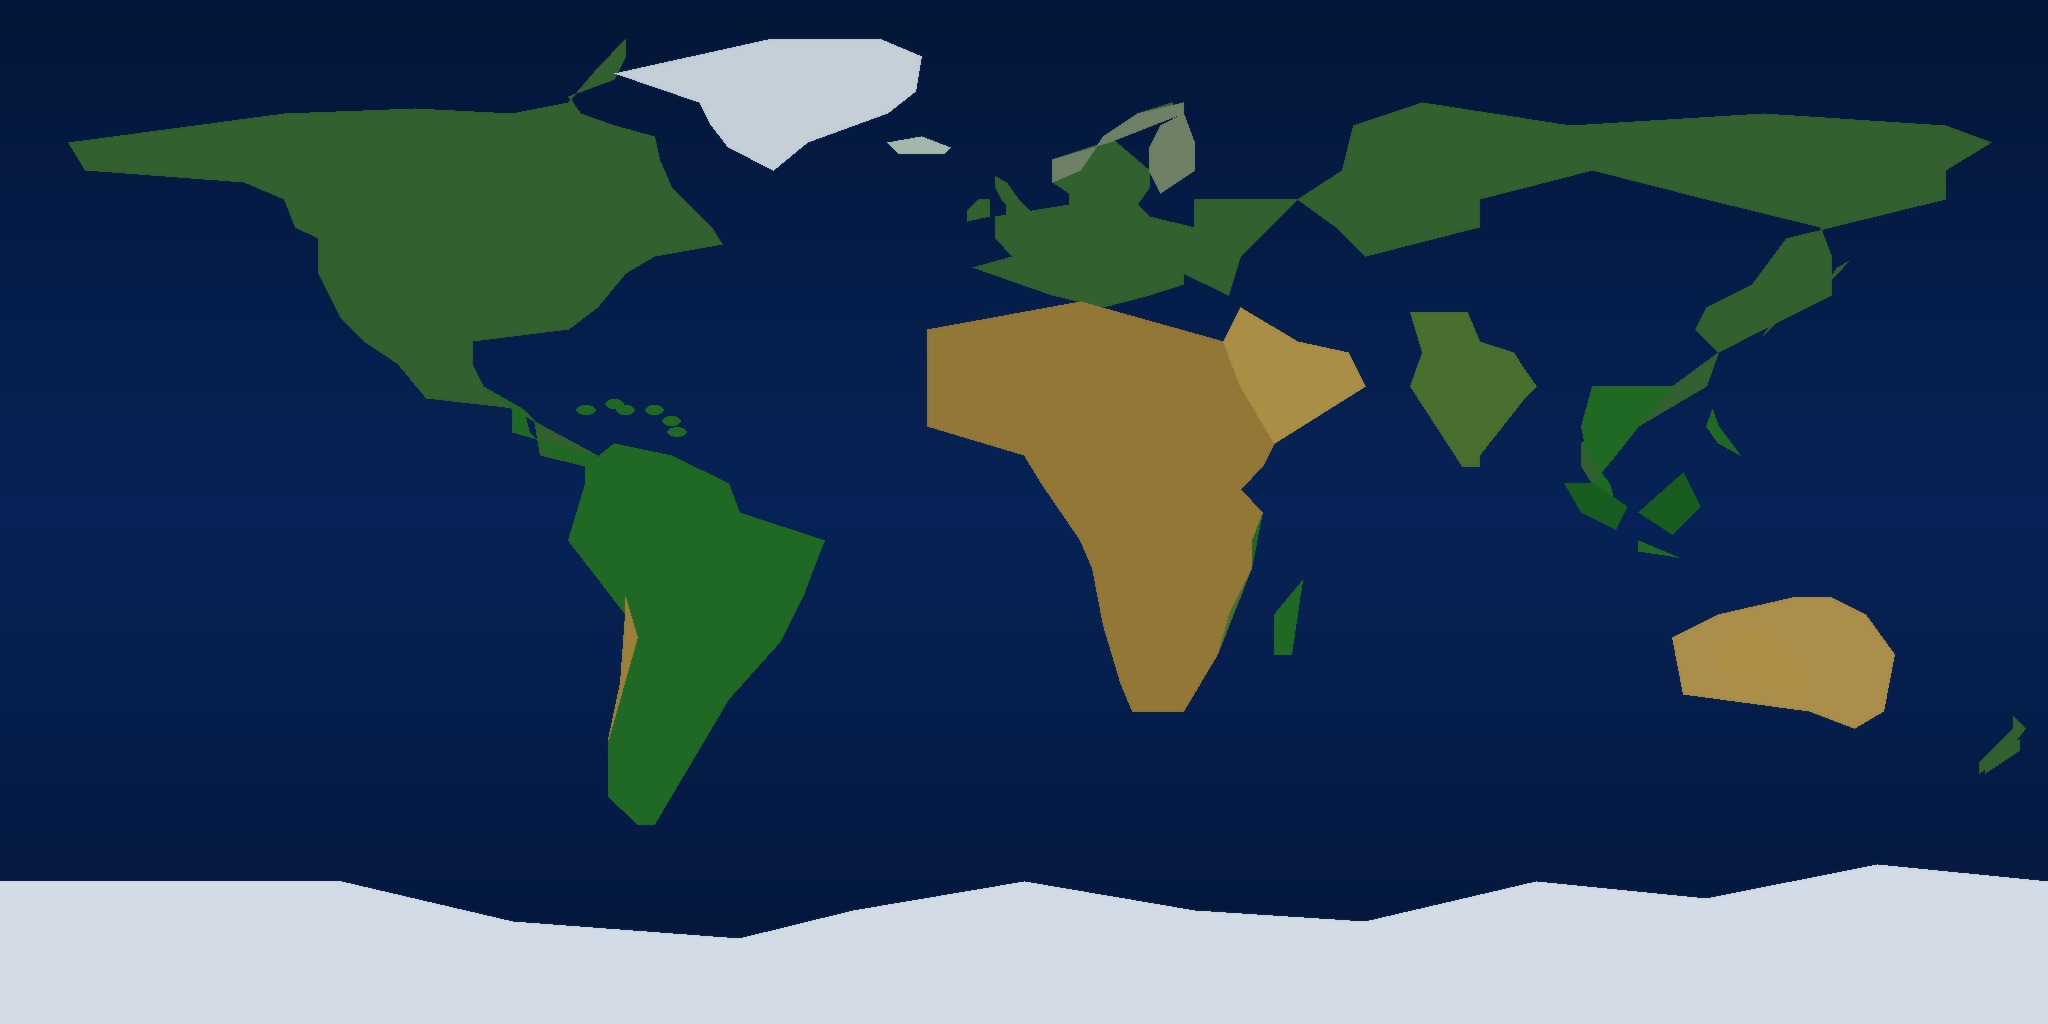
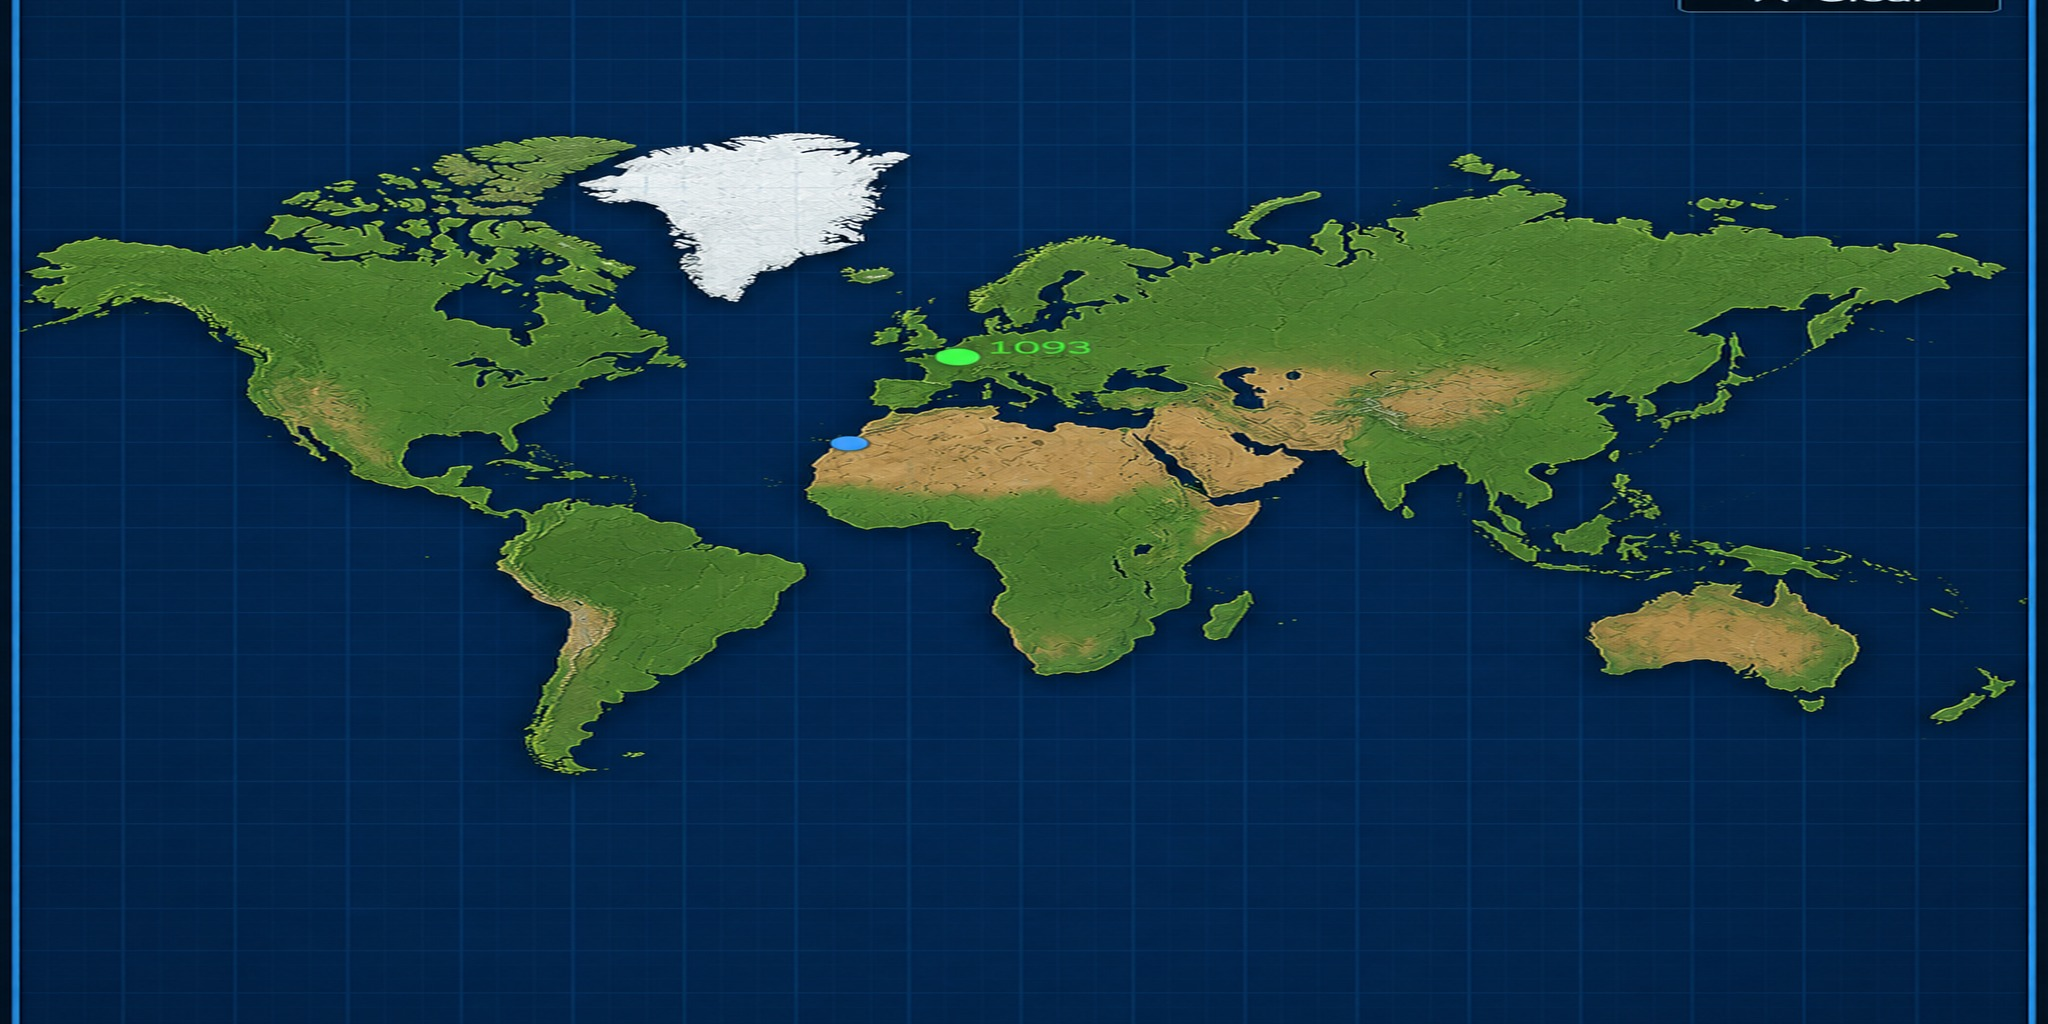
fix: map from user's image + dock pin from floating state
images/worldmap.jpg:
  Replace all generated maps with the actual satellite reference image
  the user provided (/mnt/user-data/uploads/1783166623674_image.png).
  1049x1499 PNG → cropped (4% top, 2% bottom trim) → 2048x1024 JPEG 92q.
  Verified: ocean (7,42,82), Europe land (76,122,49), Africa (84,126,54).

mainwindow.cpp — dock pin from floating state:
  All three pin paths (hamburger pinRequested signal, title-bar context
  menu, startup restore) had the same bug: removeDockWidget() before
  addDockWidget() on a FLOATING dock would detach the widget from the
  main window entirely before re-adding it, causing the dock to either
  disappear or not re-dock on some platforms.

  Qt5 rule: addDockWidget(area, dock) correctly re-docks a floating
  QDockWidget without a prior removeDockWidget() call. The correct
  sequence for floating→docked is simply addDockWidget() + setVisible().
  removeDockWidget() is only valid for the initial startup-restore path
  where the dock is already managed by the main window geometry.

diff --git a/widgets/mainwindow.cpp b/widgets/mainwindow.cpp
@@ -655,15 +655,13 @@ MainWindow::MainWindow(QDir const& temp_directory, bool multiple,
           [this](QPoint const& pos) {
     QMenu m;
     m.addAction(tr("Pin Left"),  [this]{
-      removeDockWidget(m_dxMapDock);
-      addDockWidget(Qt::LeftDockWidgetArea, m_dxMapDock);
-      m_dxMapDock->show();
+      addDockWidget(Qt::LeftDockWidgetArea,  m_dxMapDock);
+      m_dxMapDock->setVisible(true);
       m_settings->setValue("dxMapArea", "left");
     });
     m.addAction(tr("Pin Right"), [this]{
-      removeDockWidget(m_dxMapDock);
       addDockWidget(Qt::RightDockWidgetArea, m_dxMapDock);
-      m_dxMapDock->show();
+      m_dxMapDock->setVisible(true);
       m_settings->setValue("dxMapArea", "right");
     });
     m.addAction(tr("Float (detach)"), [this]{
@@ -697,15 +695,18 @@ MainWindow::MainWindow(QDir const& temp_directory, bool multiple,
   connect(m_dxMap, &DXStationMap::stationClicked,
           this, &MainWindow::on_dxMapStationClicked);
 
-  // Dock pin from hamburger button — works even when floating
+  // Dock pin from hamburger button — works regardless of floating state.
+  // Qt5 rule: calling addDockWidget() on a floating dock re-docks it correctly.
+  // Do NOT call removeDockWidget first — that detaches it from the main window
+  // entirely before re-adding, which can cause the widget to disappear on some
+  // platforms. setFloating(false) before addDockWidget is also redundant and
+  // can interfere with the geometry calculation.
   connect(m_dxMap, &DXStationMap::pinRequested, this, [this](Qt::DockWidgetArea area) {
     if (area == Qt::NoDockWidgetArea) {
         m_dxMapDock->setFloating(true);
     } else {
-        m_dxMapDock->setFloating(false);
-        removeDockWidget(m_dxMapDock);
-        addDockWidget(area, m_dxMapDock);
-        m_dxMapDock->show();
+        addDockWidget(area, m_dxMapDock);   // re-docks if floating, moves if already docked
+        m_dxMapDock->setVisible(true);
         m_settings->setValue("dxMapArea", area==Qt::LeftDockWidgetArea ? "left" : "right");
     }
   });